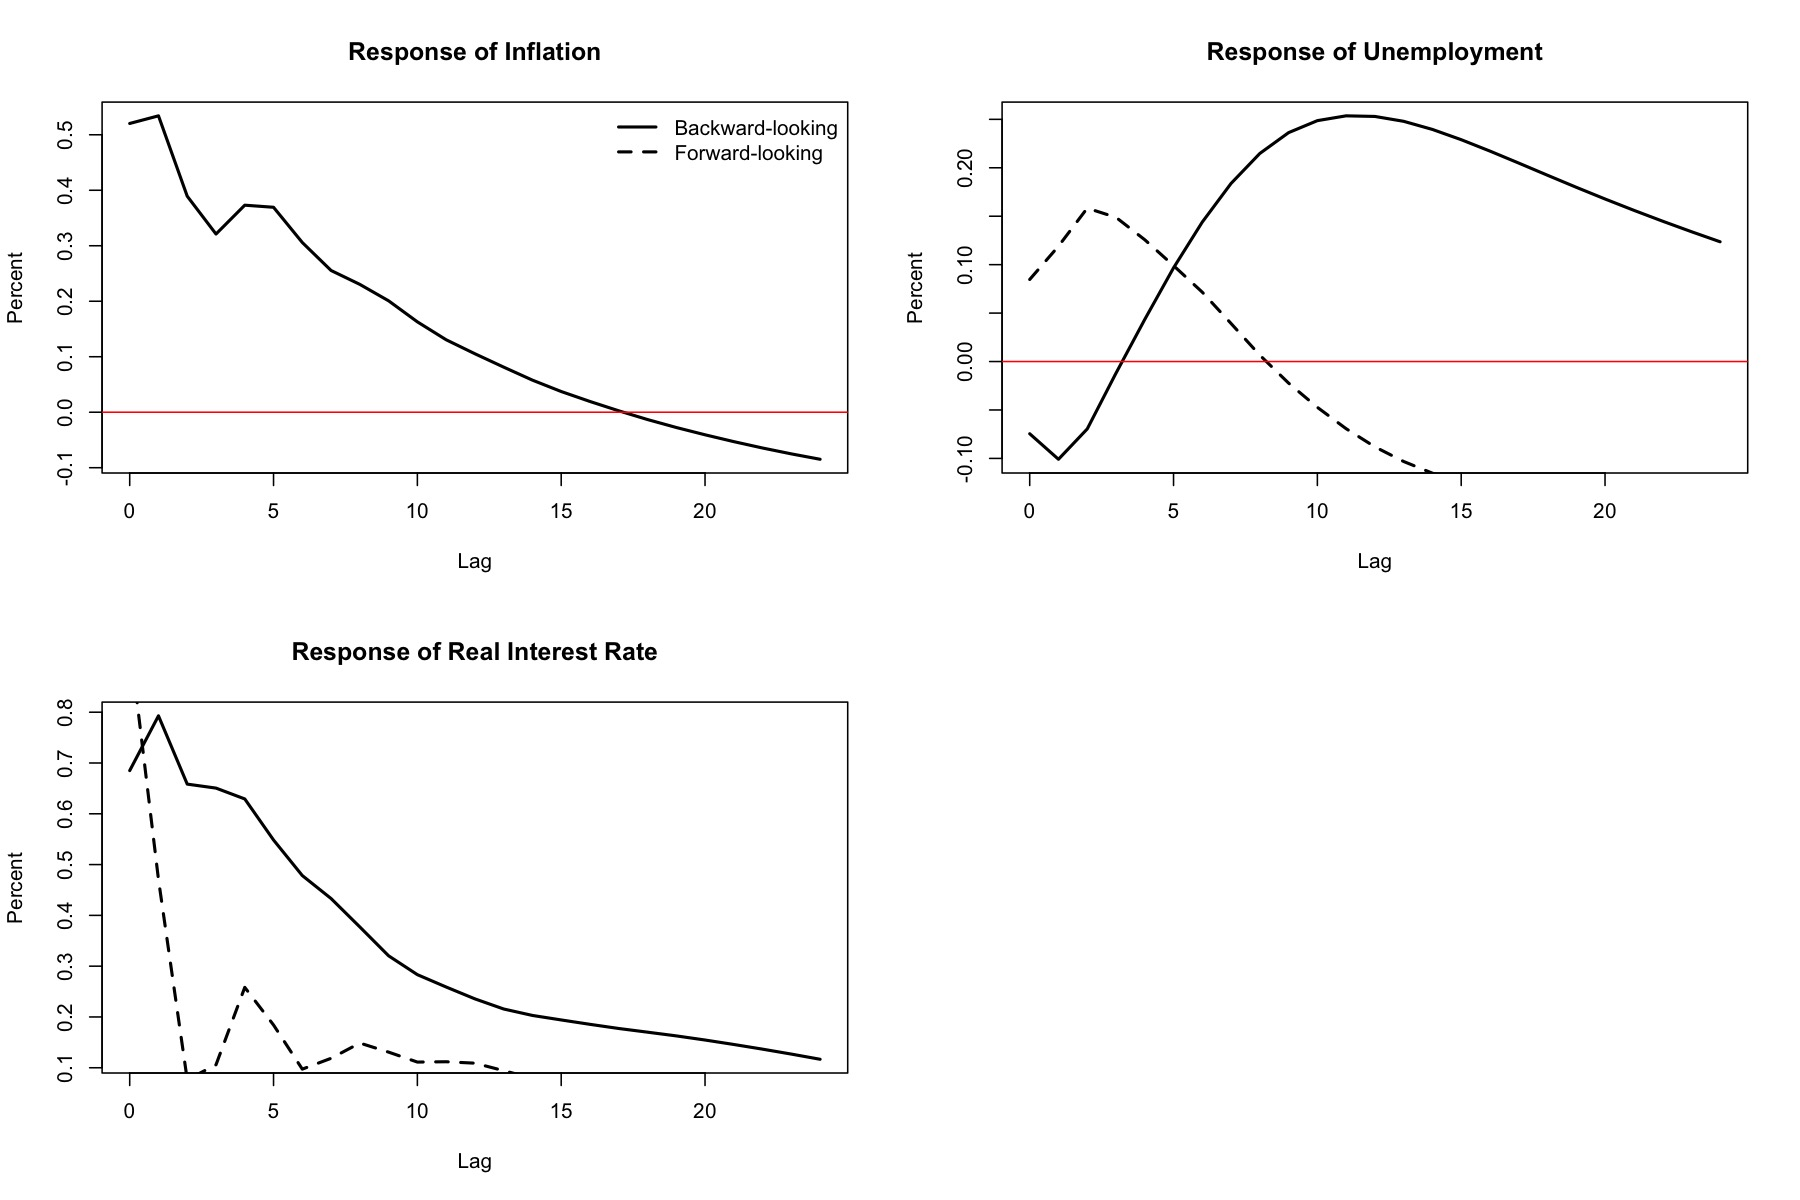
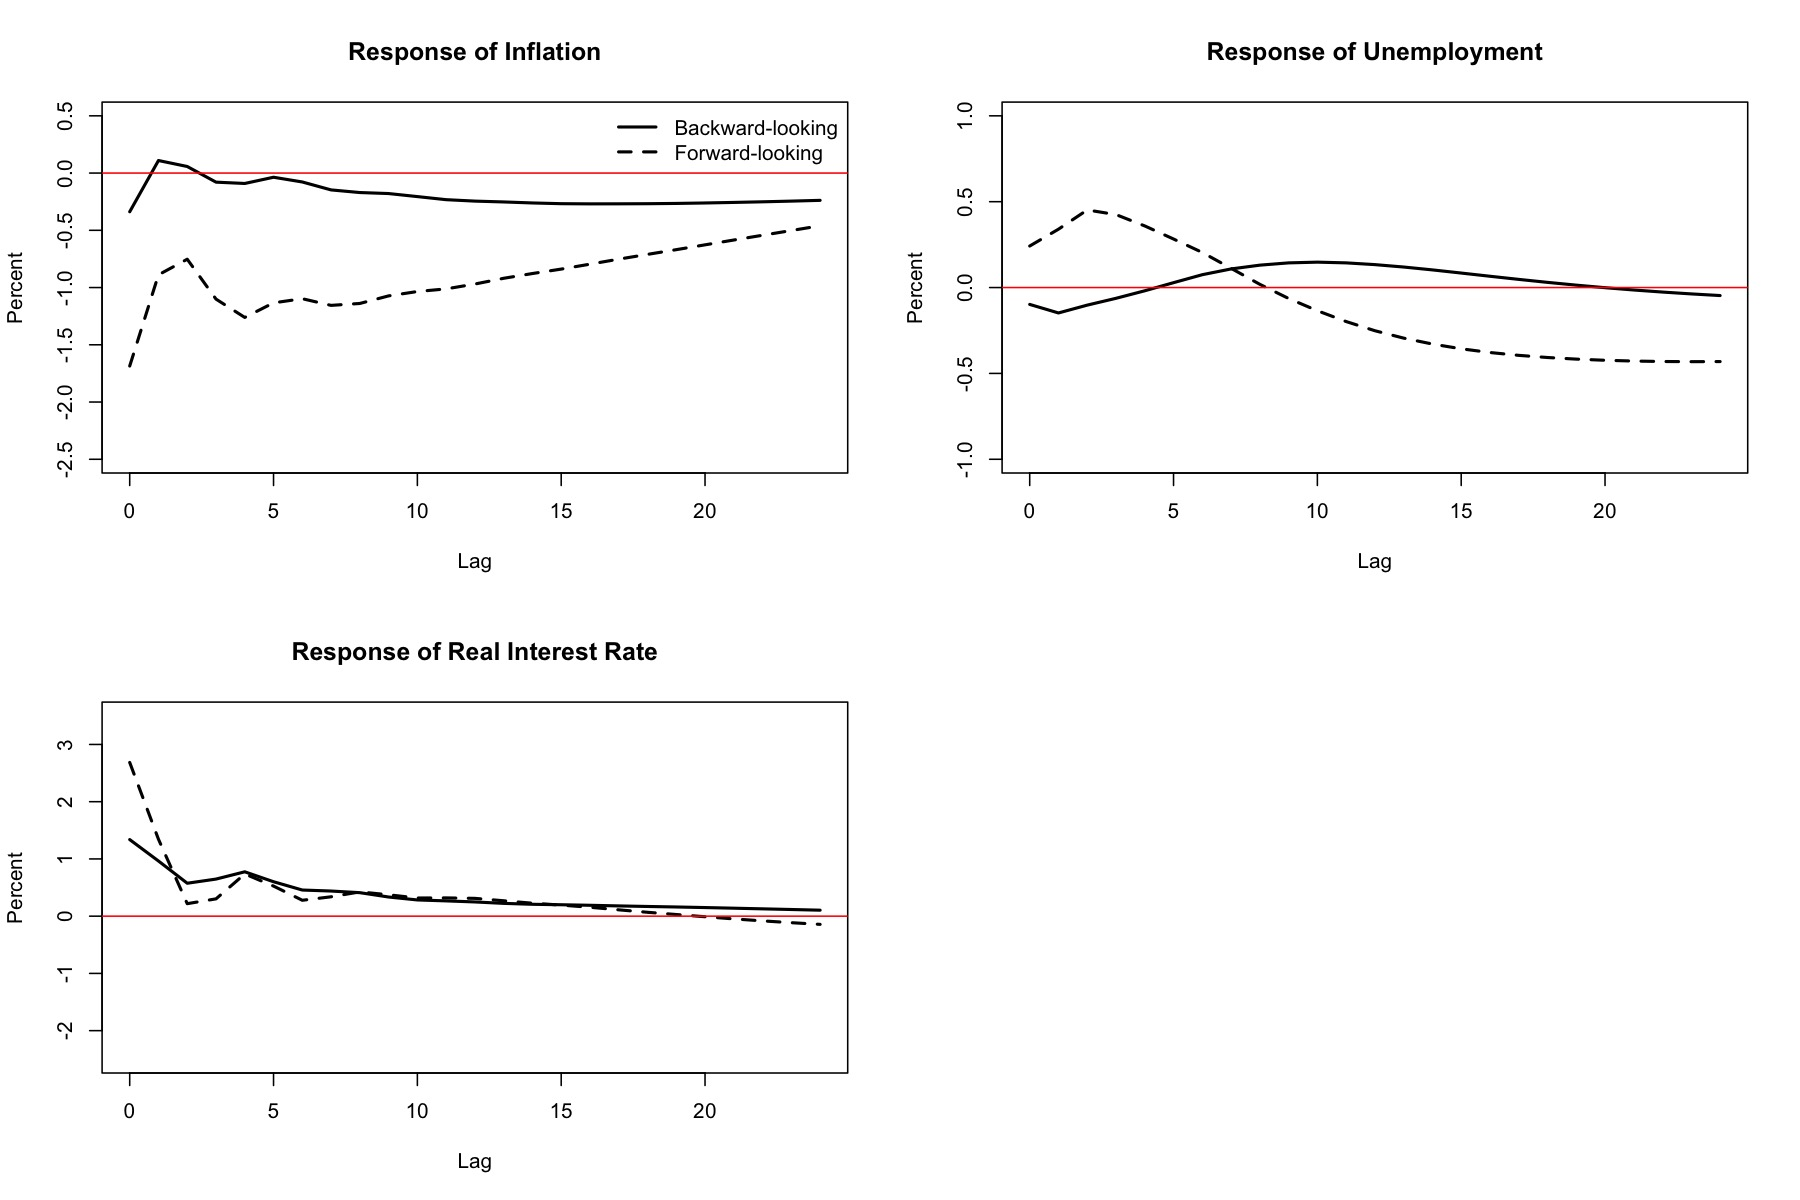
fetch of taylor rule debug

diff --git a/Replication/Figures/Preliminaries/LaTeX/diagnostics_1.tex b/Replication/Figures/Preliminaries/LaTeX/diagnostics_1.tex
@@ -1,6 +1,6 @@
 
 % Table created by stargazer v.5.2.3 by Marek Hlavac, Social Policy Institute. E-mail: marek.hlavac at gmail.com
-% Date and time: Sat, May 23, 2026 - 09:53:18
+% Date and time: Sun, May 24, 2026 - 18:35:54
 \begin{table}[!htbp] \centering 
   \caption{Residual Diagnostics} 
   \label{tab:diagnostics_1} 

diff --git a/Replication/Figures/Preliminaries/LaTeX/lag_selection_1.tex b/Replication/Figures/Preliminaries/LaTeX/lag_selection_1.tex
@@ -1,6 +1,6 @@
 
 % Table created by stargazer v.5.2.3 by Marek Hlavac, Social Policy Institute. E-mail: marek.hlavac at gmail.com
-% Date and time: Sat, May 23, 2026 - 09:53:18
+% Date and time: Sun, May 24, 2026 - 18:35:54
 \begin{table}[!htbp] \centering 
   \caption{VAR Lag Order Selection} 
   \label{tab:lag_selection_1} 

diff --git a/Replication/Figures/Preliminaries/LaTeX/roots_1.tex b/Replication/Figures/Preliminaries/LaTeX/roots_1.tex
@@ -1,6 +1,6 @@
 
 % Table created by stargazer v.5.2.3 by Marek Hlavac, Social Policy Institute. E-mail: marek.hlavac at gmail.com
-% Date and time: Sat, May 23, 2026 - 09:53:18
+% Date and time: Sun, May 24, 2026 - 18:35:54
 \begin{table}[!htbp] \centering 
   \caption{VAR Stability Roots} 
   \label{tab:roots_1} 

diff --git a/Replication/Figures/Preliminaries/LaTeX/stationarity_1.tex b/Replication/Figures/Preliminaries/LaTeX/stationarity_1.tex
@@ -1,6 +1,6 @@
 
 % Table created by stargazer v.5.2.3 by Marek Hlavac, Social Policy Institute. E-mail: marek.hlavac at gmail.com
-% Date and time: Sat, May 23, 2026 - 09:53:18
+% Date and time: Sun, May 24, 2026 - 18:35:54
 \begin{table}[!htbp] \centering 
   \caption{Stationarity Tests} 
   \label{tab:stationarity_1} 